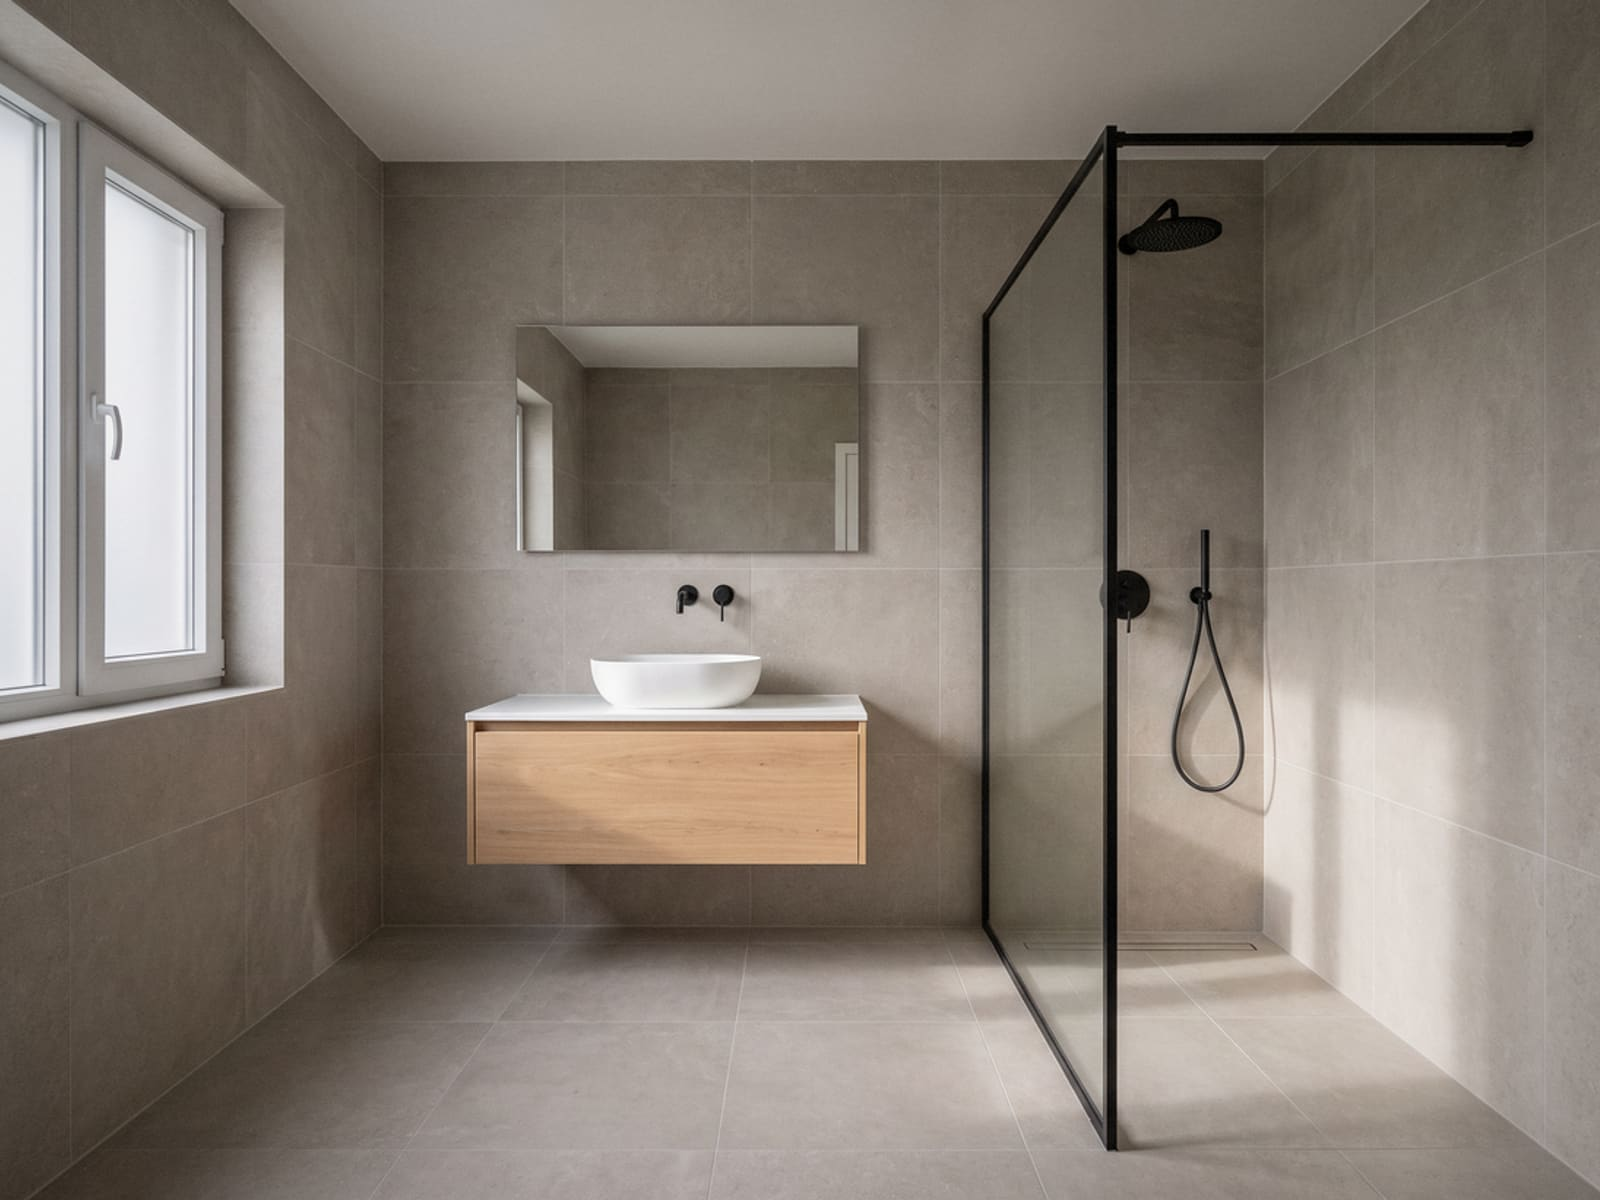
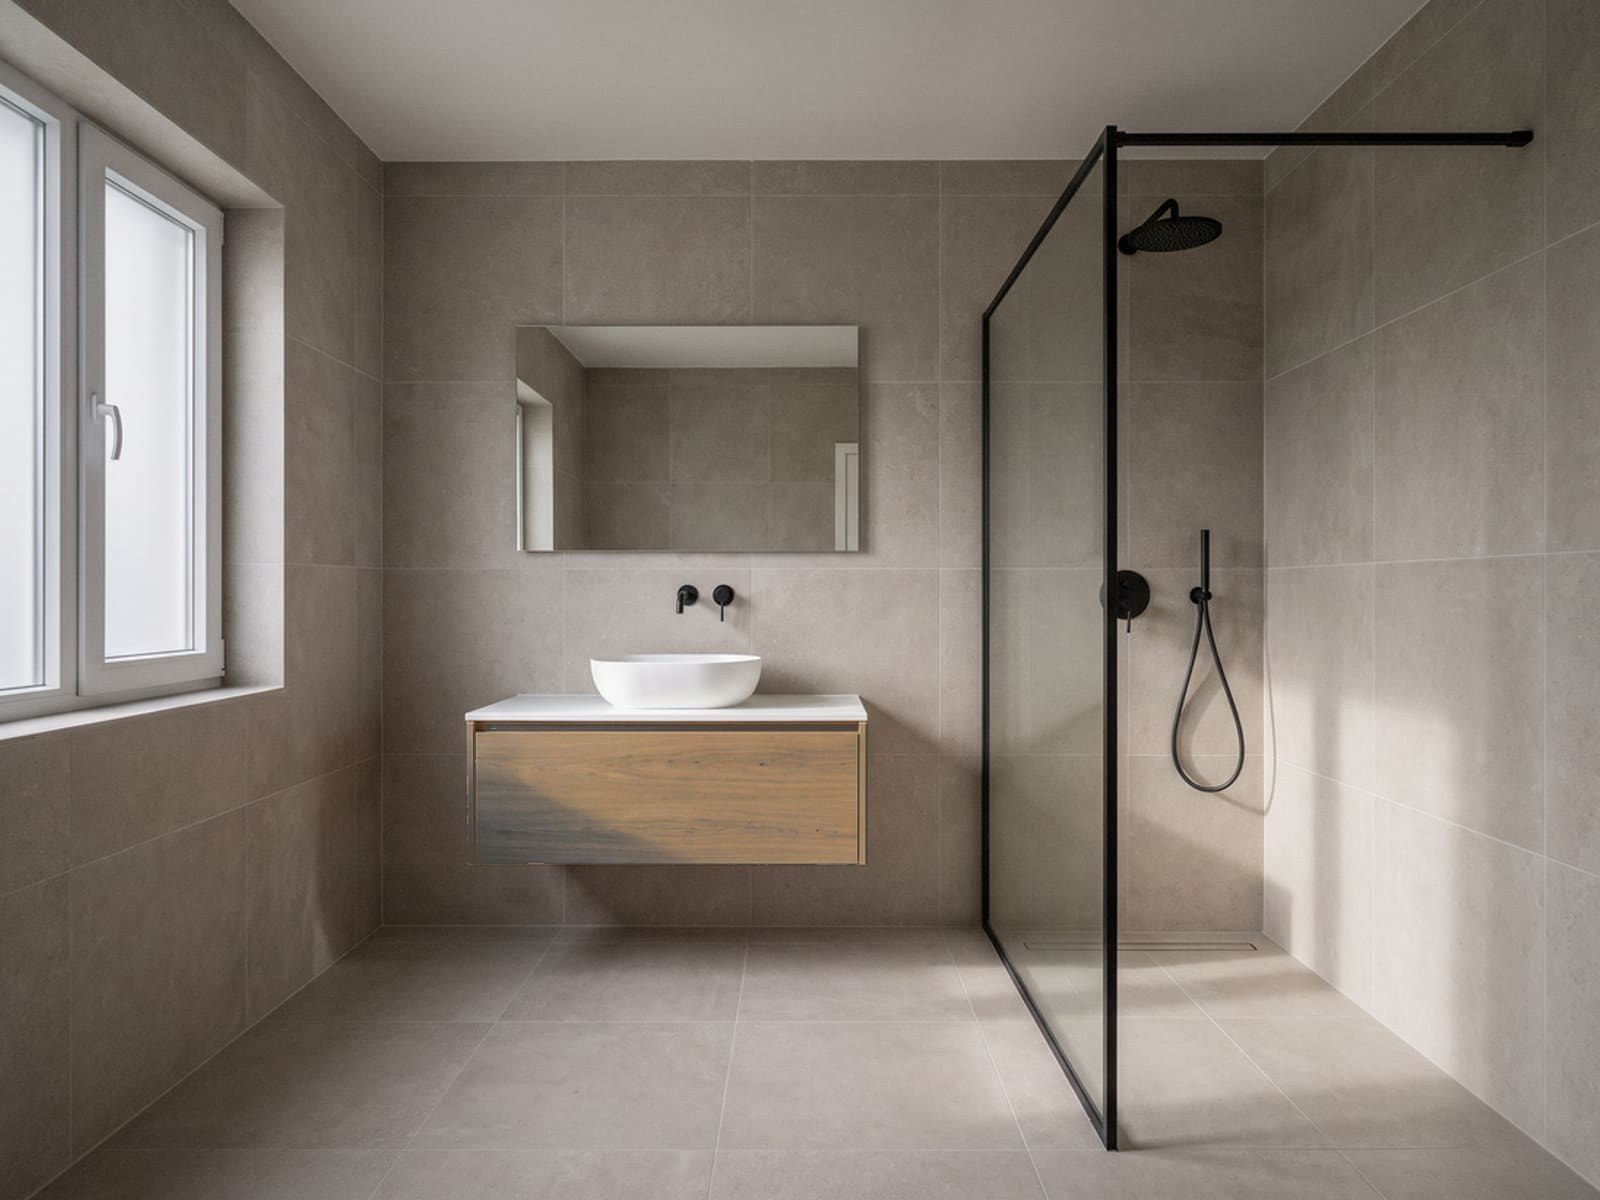
Badkamer-calculator + woonkamerfoto opnieuw + houtkleur gelijkgetrokken
Badkamerrenovatie krijgt dezelfde calculator als tegel en pleister: werk,
oppervlakte, leidingen, en of het de enige badkamer is. Die laatste vraag komt
uit de FAQ van de pagina zelf: wie maar een badkamer heeft, krijgt toilet en
douche als eerste terug aangesloten. Dat is planningsinfo die AB echt gebruikt.

De lede van die pagina opende met "Wij" en eindigde op de stadjeslijst die als
sjabloonslot op tien van de veertien pagina's stond. Vervangen door een platte
opsomming van wat er gedaan wordt.

Totaalrenovatie, derde galerijfoto: die was frontaal, gecentreerd, alles in een
beigetint, zonder lichtrichting en zonder het eiken dat in de andere twee foto's
zit. Opnieuw gemaakt met de keukenfoto als referentie, camera schuin en de bank
door de rand gesneden, daglicht van links, en dezelfde vloer en houttint als in
de keuken.

Tweede foto van diezelfde reeks: het badkamermeubel stond in een lichter
natuureiken dan de keukentafel, waardoor het niet als hetzelfde huis las. Beide
houtvlakken opgemeten en het meubel op de tafelkleur gezet (147,124,100 tegen
148,124,99). De correctie raakt alleen pixels boven 28% helderheid, anders
wordt de schaduw onder de kast tot zwart geplet.

Twee meetfouten die daarbij bovenkwamen: sharp geeft na extract() de statistiek
van de HELE foto terug, niet van de uitsnede, waardoor beide houtvlakken als
neutraal grijs uit de meting kwamen. Gemiddelden worden nu uit de ruwe pixels
berekend.

npm run verify groen: 44 tests.

Changed region(s): [[0.2812, 0.5858, 0.5625, 0.74]]

diff --git a/src/pages/abbouw/calculator/calcConfigs.ts b/src/pages/abbouw/calculator/calcConfigs.ts
@@ -28,6 +28,12 @@ import imgTgWand from '@/assets/lp-diensten/tegelkaart-wandtegel.jpg';
 import imgPlWand from '@/assets/lp-diensten/pleisterkaart-wand.jpg';
 import imgPlPlafond from '@/assets/lp-diensten/pleisterkaart-plafond.jpg';
 import imgPlGyproc from '@/assets/lp-diensten/pleisterkaart-gyproc.jpg';
+/* Badkamer-kaarten: de hele ruimte voor een volledige renovatie, de douchecabine
+   voor de inloopdouche, en de inloopdouche onder het hellend dak voor de klant
+   die zijn bad laat vervangen. Alle drie zijn 4:3, net als de duimnagel. */
+import imgBkVolledig from '@/assets/lp-diensten/badkamer-hero.jpg';
+import imgBkDouche from '@/assets/lp-diensten/badkamer-what.jpg';
+import imgBkBad from '@/assets/lp-diensten/badkamer-g2.jpg';
 
 export const CALC_CONFIGS: Record<string, CalcConfig> = {
   velux: {
@@ -269,6 +275,62 @@ export const CALC_CONFIGS: Record<string, CalcConfig> = {
           { key: 'ruw', label: 'Nieuwe of ruwe ondergrond', desc: 'Snelbouw of beton dat nog niet gepleisterd is' },
           { key: 'oud', label: 'Oud pleisterwerk met scheuren of oneffenheden', desc: 'Wij vlakken uit en herpleisteren waar nodig' },
           { key: 'weet', label: 'Weet ik niet', desc: 'Wij beoordelen de ondergrond ter plaatse' },
+        ],
+      },
+    ],
+  },
+
+  /* Badkamer is AB Bad & Wellness, niet interieurwerken. De stappen volgen de
+     typeWerkOpties van de LP (r_bk), zodat de calculator-lead in GHL dezelfde
+     taal spreekt als het gewone formulier. De laatste stap komt uit de FAQ:
+     wie maar één badkamer heeft, krijgt toilet en douche als eerste terug aan.
+     Dat is planningsinfo die AB echt gebruikt, geen verzonnen vraag. */
+  badkamerrenovatie: {
+    slug: 'badkamerrenovatie',
+    label: 'Badkamer aanvraag',
+    triggerLabel: 'Bereken uw badkamer',
+    division: 'ab_bad__wellness',
+    bronLead: 'calculator:badkamerrenovatie',
+    contactSub: 'We bellen u <span class="calc-em">binnen één werkdag</span> om het gratis plaatsbezoek in te plannen. Daarna volgt uw vaste prijs op papier.',
+    formHint: 'We bellen u binnen 1 werkdag om het gratis plaatsbezoek in te plannen. Daarna volgt uw vaste prijs op papier.',
+    steps: [
+      {
+        id: 'werk', kind: 'rows', summary: 'Werk',
+        q: 'Wat wilt u laten doen?',
+        sub: 'Nog niet zeker? Wij denken mee bij het gratis plaatsbezoek.',
+        options: [
+          { key: 'volledig', label: 'Volledige badkamer renoveren', desc: 'Van vloer tot plafond: uitbreken, leidingen, tegels, sanitair en afwerking', img: imgBkVolledig },
+          { key: 'inloopdouche', label: 'Inloopdouche plaatsen', desc: 'Een ruime inloopdouche op maat, waterdicht ingewerkt', img: imgBkDouche },
+          { key: 'bad-naar-douche', label: 'Bad vervangen door douche', desc: 'Het oude bad eruit, de leidingen en de afvoer mee aangepast', img: imgBkBad },
+          { key: 'weet', label: 'Iets anders of advies nodig', desc: 'Wij bekijken het samen bij het gratis plaatsbezoek' },
+        ],
+      },
+      {
+        id: 'oppervlakte', kind: 'slider', summary: 'Oppervlakte',
+        q: 'Hoe groot is de badkamer ongeveer?',
+        sub: 'Een ruwe schatting volstaat, wij meten exact op.',
+        min: 2, max: 20, step: 1, def: 6, unit: 'm²',
+        tip: 'Niet zeker van de oppervlakte? <span class="calc-em">Geen probleem</span>, wij meten alles op bij het <span class="calc-em">gratis plaatsbezoek</span>.',
+        skipLabel: 'Weet ik niet, meet maar op',
+        tag: (v: number) => v < 5 ? 'Kleine badkamer' : v < 9 ? 'Gemiddelde badkamer' : v < 14 ? 'Ruime badkamer' : 'Grote badkamer',
+      },
+      {
+        id: 'leidingen', kind: 'rows', summary: 'Leidingen',
+        q: 'Moeten de leidingen mee vernieuwd worden?',
+        sub: 'Dit bepaalt mee hoeveel voorbereidend werk er is.',
+        options: [
+          { key: 'vernieuwen', label: 'Ja, alles mag vernieuwd', desc: 'Nieuwe water- en afvoerleidingen, kranen en toilet correct aangesloten' },
+          { key: 'behouden', label: 'Nee, die zijn nog in orde', desc: 'Dan sluiten wij aan op de leidingen die er liggen' },
+          { key: 'weet', label: 'Weet ik niet', desc: 'Wij beoordelen de leidingen ter plaatse' },
+        ],
+      },
+      {
+        id: 'enige', kind: 'rows', summary: 'Badkamers',
+        q: 'Is dit uw enige badkamer?',
+        sub: 'Bij een volledige renovatie ligt de badkamer een aantal dagen stil.',
+        options: [
+          { key: 'enige', label: 'Ja, dit is de enige', desc: 'Dan sluiten wij het toilet en een werkende douche als eerste opnieuw aan' },
+          { key: 'tweede', label: 'Nee, er is nog een tweede', desc: 'Dan hebben wij wat meer speling in de planning' },
         ],
       },
     ],

diff --git a/src/pages/abbouw/lp/LpDienst.tsx b/src/pages/abbouw/lp/LpDienst.tsx
@@ -194,7 +194,7 @@ export const DIENSTEN: Record<string, Dienst> = {
     division: 'ab_bad__wellness', typeWerk: 'AB Bad & Wellness', bronLead: 'ads:badkamerrenovatie',
     eyebrow: 'Badkamerrenovatie · heel Vlaanderen',
     h1: 'Een nieuwe badkamer, in één keer goed.',
-    sub: 'Wij vernieuwen uw badkamer volledig: sanitair, tegels, douche en leidingen. Eén ploeg, één vaste prijs, in Mechelen, Antwerpen, Lier en heel Vlaanderen.',
+    sub: 'Sanitair, tegels, douche en leidingen, vernieuwd door één ploeg. De prijs ligt vast voor de werken beginnen.',
     subBold: 'Vaste prijs vooraf',
     heroImg: imgBkHero,
     topbar: ['Gratis plaatsbezoek binnen 5 werkdagen', 'VCA-gecertificeerd en verzekerd'],
